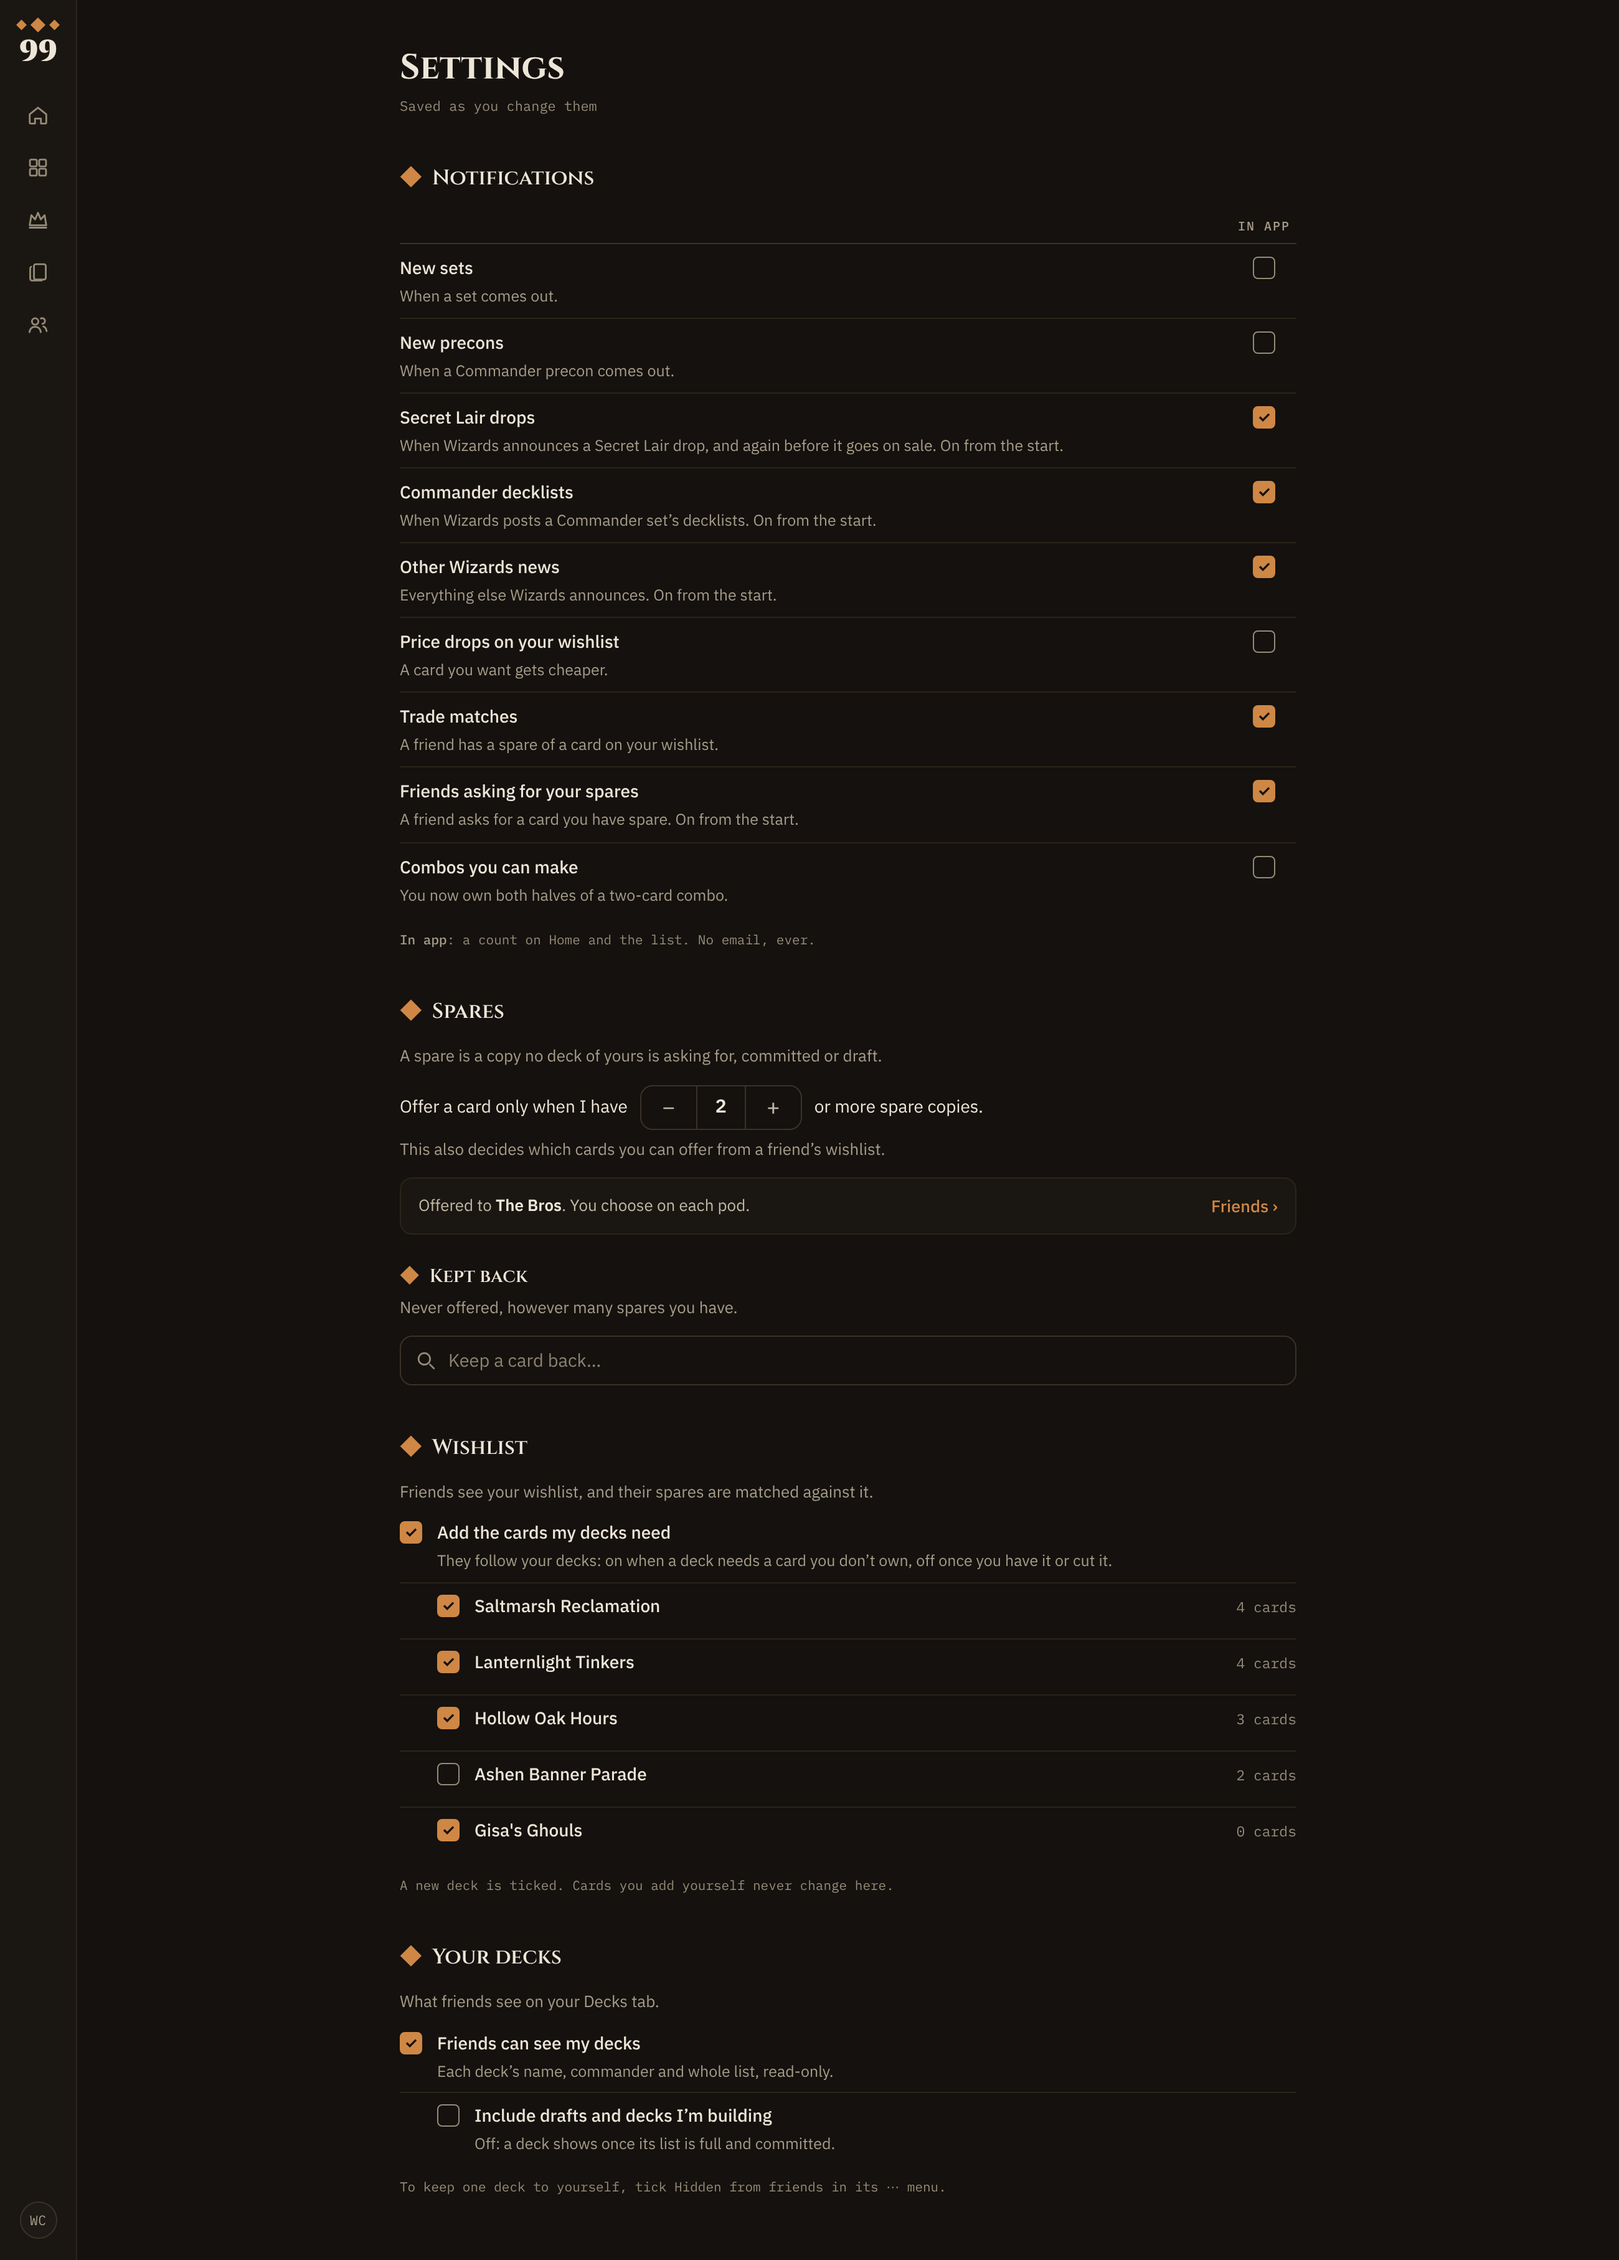
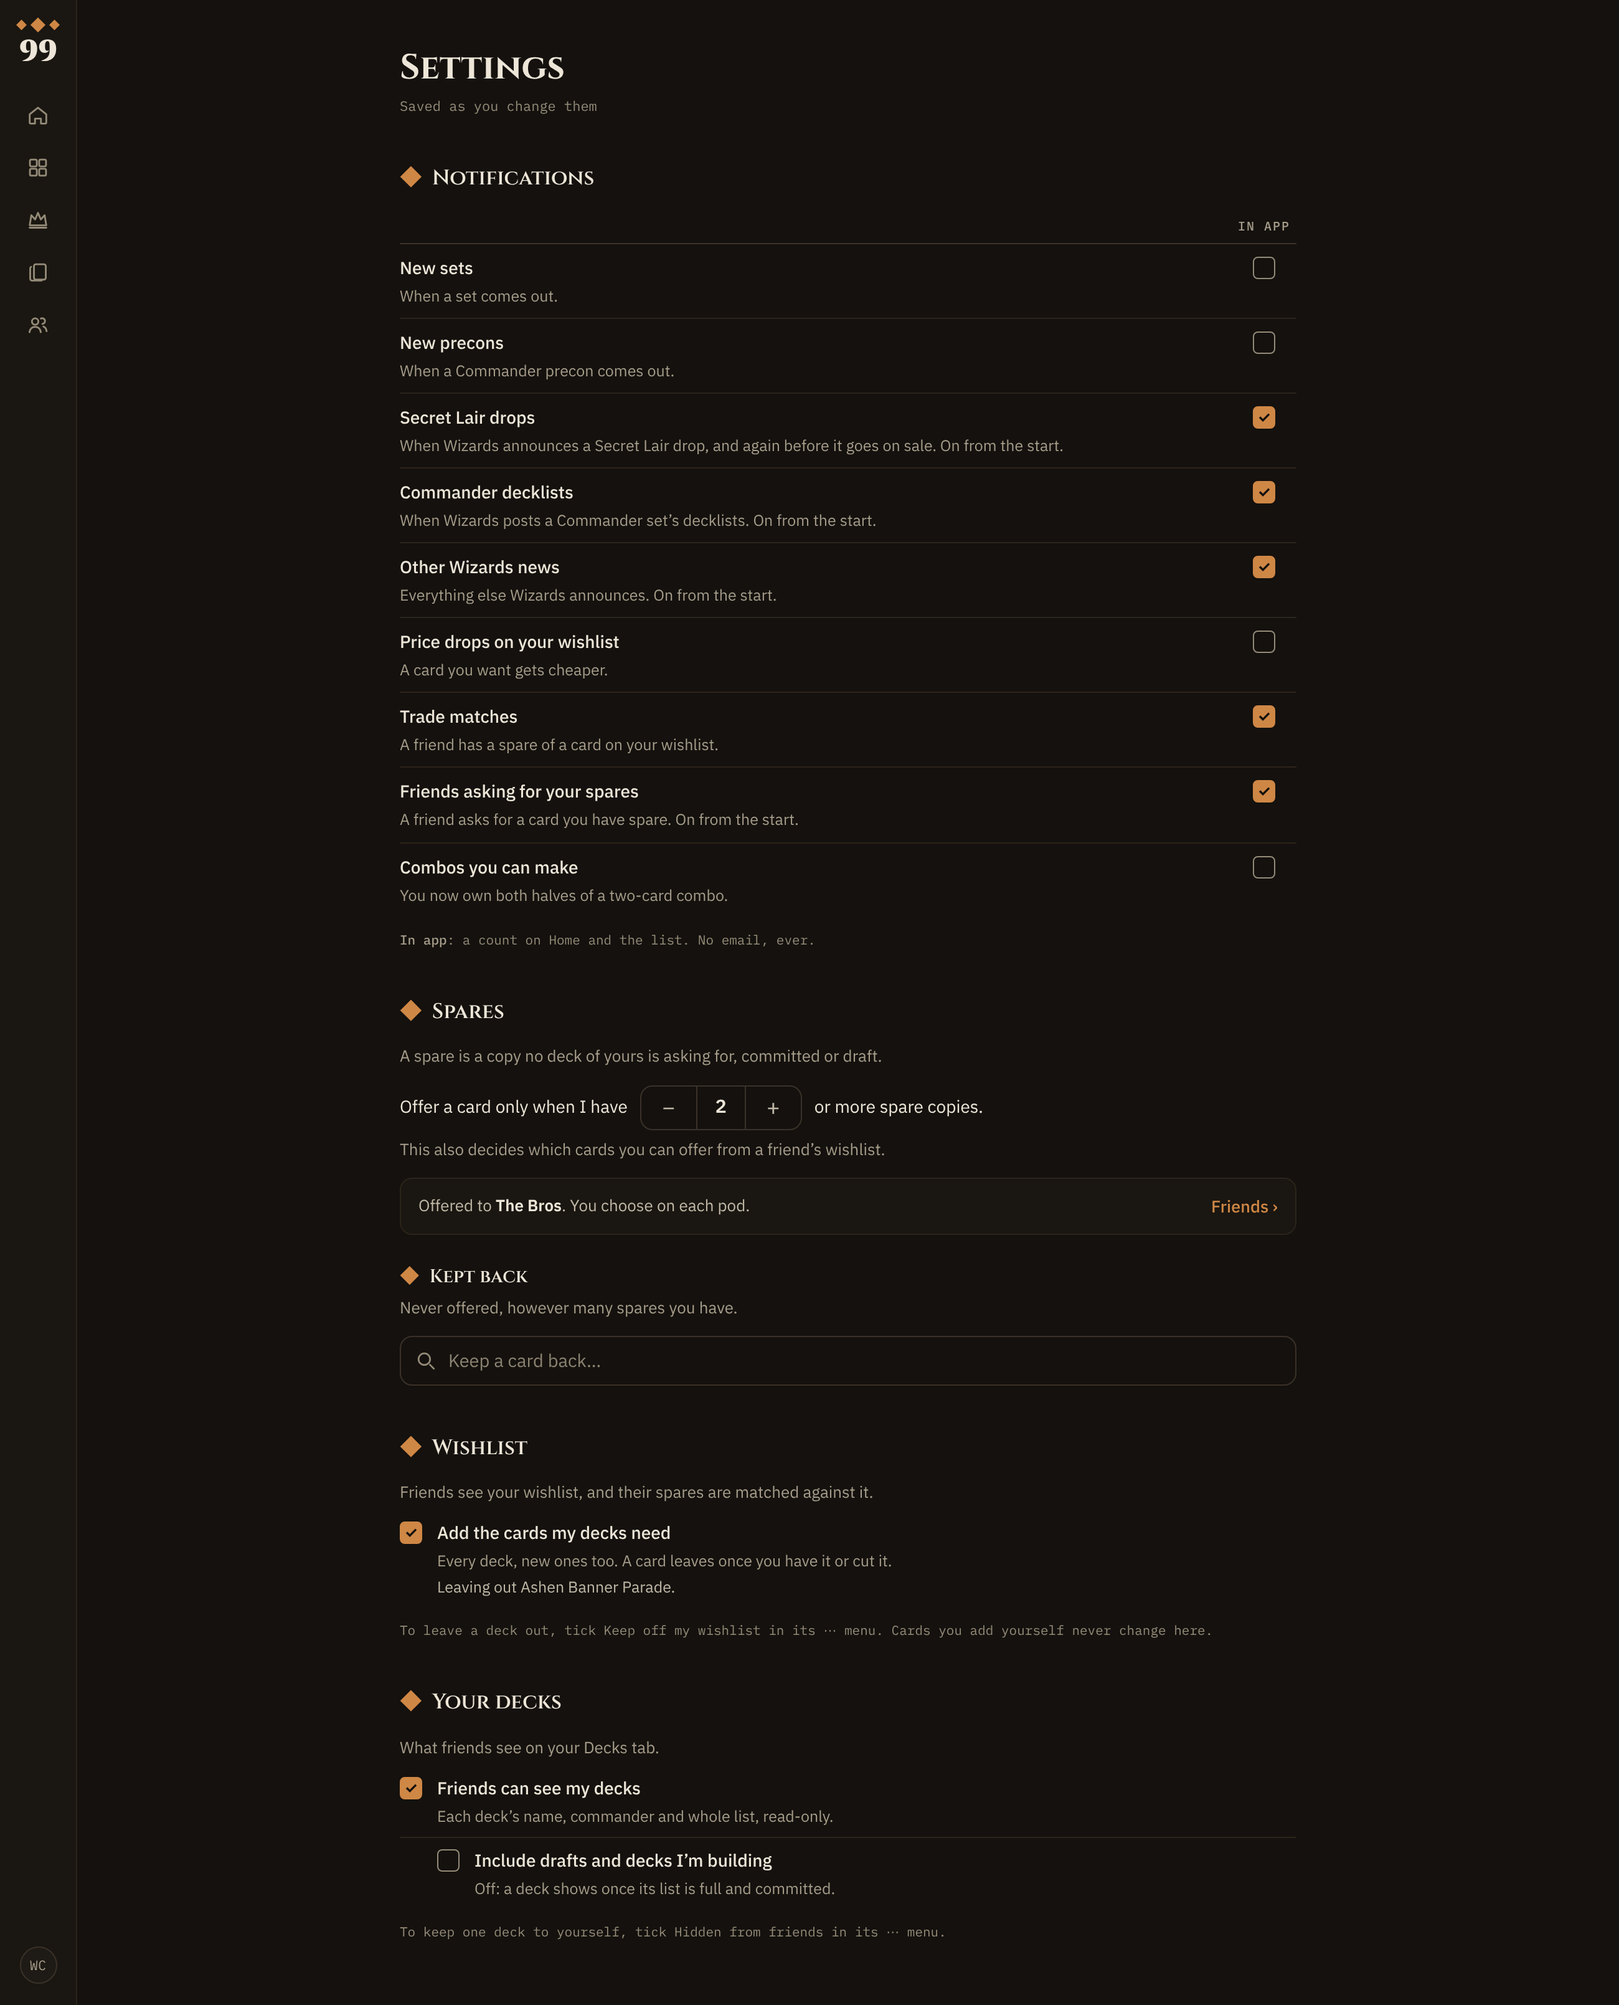
account-2 2026-11-27: Cart on your wishlist R1b, per-deck ticks move from Settings to the deck menu's Keep off my wishlist
Claude-Session: https://claude.ai/code/session_01UvpaAZcvFpJFTKCcWzjzxm

diff --git a/account-2/design_handoff_the99_cart_wishlist/Settings.dc.html b/account-2/design_handoff_the99_cart_wishlist/Settings.dc.html
@@ -2,7 +2,7 @@
 <html lang="en">
 <head>
 <meta charset="utf-8">
-<title>Settings, Wishlist section</title>
+<title>Settings, Wishlist section and the deck menu</title>
 <script src="./support.js"></script>
 </head>
 <body>
@@ -12,20 +12,34 @@
 body{margin:0}
 </style>
 </helmet>
-<div style="width: 1878px; height: 2350px; box-sizing: border-box; padding: 48px 64px 64px; background: #161412; color: #e9e3d8; font-family: system-ui, -apple-system, sans-serif; display: flex; gap: 60px; align-items: flex-start">
+<div style="width: 1878px; height: 3200px; box-sizing: border-box; padding: 48px 64px 64px; background: #161412; color: #e9e3d8; font-family: system-ui, -apple-system, sans-serif; display: flex; flex-direction: column; gap: 50px">
+<div style="display: flex; gap: 60px; align-items: flex-start">
 <div style="display: flex; flex-direction: column; gap: 14px; width: 1300px">
-<p style="margin: 0; font-size: 22px; font-weight: 700">S1 · Settings, switch on</p>
-<p style="margin: 0; font-size: 15px; color: #b9b1a3; height: 44px">A new Wishlist section between Spares and Your decks, drawn as Your decks draws its rows. Ashen Banner Parade is unticked, so its cards leave the wishlist. Gisa's Ghouls needs nothing yet.</p>
-<img src="/_blob/b81094cd4c3a169b21a657bf37076869" alt="Settings with the Wishlist section, desktop" style="width: 1300px; height: 1814px; border-radius: 10px; display: block">
+<p style="margin: 0; font-size: 22px; font-weight: 700">S1b · Settings, switch on</p>
+<p style="margin: 0; font-size: 15px; color: #b9b1a3; height: 44px">One switch takes every deck, new ones too, so nothing is ticked deck by deck. The section is the same height at 5 decks or 50: one line names the decks you left out, and the foot says where to do it.</p>
+<img src="/_blob/1480b50b18dc89e4b67c3b8630f828ad" alt="Settings with the Wishlist section, desktop" style="width: 1300px; height: 1609px; border-radius: 10px; display: block">
 </div>
 <div style="display: flex; flex-direction: column; gap: 14px; width: 390px">
 <p style="margin: 0; font-size: 22px; font-weight: 700">Phone</p>
 <p style="margin: 0; font-size: 15px; color: #b9b1a3; height: 44px">The same rows at full width.</p>
-<img src="/_blob/6ad71ef04de87c8eeec76edefba1966b" alt="Settings with the Wishlist section, phone" style="width: 390px; height: 2160px; border-radius: 10px; display: block">
+<img src="/_blob/6707577a85891d513f254aa5c92ae97f" alt="Settings with the Wishlist section, phone" style="width: 390px; height: 1955px; border-radius: 10px; display: block">
+</div>
+</div>
+<div style="display: flex; gap: 60px; align-items: flex-start">
+<div style="display: flex; flex-direction: column; gap: 14px; width: 1300px">
+<p style="margin: 0; font-size: 22px; font-weight: 700">M1 · The deck's ⋯ menu, Decks list</p>
+<p style="margin: 0; font-size: 15px; color: #b9b1a3; height: 44px">"Keep off my wishlist" sits under Hidden from friends, as the same checkbox row. It shows only while the switch is on. The deck page header's ⋯ menu gets the same row. Shown over the shipped Decks page.</p>
+<img src="/_blob/4c1772a5de858464c9f0c2c25e87c528" alt="Deck menu with Keep off my wishlist ticked, desktop" style="width: 1300px; height: 900px; border-radius: 10px; display: block">
+</div>
+<div style="display: flex; flex-direction: column; gap: 14px; width: 390px">
+<p style="margin: 0; font-size: 22px; font-weight: 700">Phone</p>
+<p style="margin: 0; font-size: 15px; color: #b9b1a3; height: 44px">Scrolled to the first tile.</p>
+<img src="/_blob/25fc9c216f606f1677bc5c37c565af92" alt="Deck menu with Keep off my wishlist ticked, phone" style="width: 390px; height: 514px; border-radius: 10px; display: block">
+</div>
 </div>
 </div>
 </x-dc>
-<script type="text/x-dc" data-dc-script data-props='{"$preview":{"width":1878,"height":2350}}'>
+<script type="text/x-dc" data-dc-script data-props='{"$preview":{"width":1878,"height":3200}}'>
 class Component extends DCLogic {
 renderVals() { return {}; }
 }

diff --git a/account-2/design_handoff_the99_cart_wishlist/scratch-gen/render.tsx b/account-2/design_handoff_the99_cart_wishlist/scratch-gen/render.tsx
@@ -1,6 +1,6 @@
 // Cart on your wishlist R1 (account 2, 2026-11-27): every frame is the shipped shell and the shipped page, rendered with
 // the shipped CSS, with this round's proposal applied (wishlist-groups.tsx, wishlist-section.tsx, the rolled trade match).
-import { app, done } from "./shell";
+import { app, done, frames } from "./shell";
 import { CollectionPlaceHead } from "../src/components/collection/collection-place-head";
 import { WishlistView } from "../src/components/wishlist/wishlist-view";
 import { SettingsView } from "../src/components/settings/settings-view";
@@ -13,6 +13,9 @@ import { FriendStrip } from "../src/components/social/friend-strip";
 import { FriendWishlist } from "../src/components/social/friend-wishlist";
 import { WhatsNew } from "../src/components/home/whats-new";
 import { named } from "../src/lib/person-name/mint";
+import { DeckCardOverflow } from "../src/components/decks/deck-card-overflow";
+import { renderToString } from "react-dom/server";
+import { writeFileSync } from "node:fs";
 
 const NOW = new Date("2026-11-27T03:00:00Z");
 let seq = 0;
@@ -61,7 +64,7 @@ const settings = (on: boolean) => (
   <SettingsView>
     <NewsSection kinds={news} />
     <SparesSection spareMin={2} pods={[named("The Bros")]} kept={[]} />
-    <WishlistSection on={on} decks={DECKS.map((d) => ({ name: d.name, cards: d.tiles.length, in: true })).concat([{ name: "Gisa's Ghouls", cards: 0, in: true }]).map((d, i) => ({ ...d, in: i !== 3 }))} />
+    <WishlistSection on={on} leftOut={["Ashen Banner Parade"]} />
     <FriendDecksSection prefs={{ seeDecks: true, seeUnfinished: false }} />
   </SettingsView>
 );
@@ -108,4 +111,18 @@ app("N0-desk", "desk", home(old), { path: "/" });
 app("N0-phone", "phone", home(old), { path: "/" });
 app("N1-desk", "desk", home(rolled), { path: "/" });
 app("N1-phone", "phone", home(rolled), { path: "/" });
+// M: the Decks list's ⋯ menu on Ashen Banner Parade, open, over the shipped Decks capture (About pages, amonkhet).
+(globalThis as any).__OPEN = true;
+const menu = (
+  <DeckCardOverflow deckId="d4" deckName="Ashen Banner Parade" built={99} placement="tile"
+    move={{ folders: [], folderId: null, folderName: null, onCreateFolder: () => {}, onMove: () => {}, keepsFocus: true, closeAfterCreate: null }}
+    onAmong={() => {}}
+    friends={{ hidden: false, statusPill: "To buy", prefs: { seeDecks: true, seeUnfinished: false }, built: 99, size: 99, canCommit: false }}
+    wishlist={{ kept: true }} />
+);
+const over = (bg: string, w: number, h: number, right: number, top: number, shift = 0, fh = h) => `<div style="position:relative;width:${w}px;height:${fh}px;overflow:hidden;background:url(${bg}) 0 ${-shift}px/${w}px ${h}px no-repeat"><div style="position:absolute;left:${right - 23}px;top:${top}px;width:23px">${renderToString(menu)}</div></div>`;
+writeFileSync("dz/frames/M1-desk.html", over("art/d-decks2.webp", 1300, 900, 472, 354));
+writeFileSync("dz/frames/M1-phone.html", over("art/p-decks.webp", 390, 844, 372, 465 - 330, 330, 514));
+frames.push({ id: "M1-desk", dev: "desk", vh: 900 }, { id: "M1-phone", dev: "phone", vh: 514 });
+(globalThis as any).__OPEN = false;
 done();

diff --git a/account-2/design_handoff_the99_cart_wishlist/Main.dc.html b/account-2/design_handoff_the99_cart_wishlist/Main.dc.html
@@ -22,7 +22,7 @@ a{color:#e8a25b}a:hover{color:#f2bd85}
 <div style="display: grid; grid-template-columns: repeat(2, minmax(0, 1fr)); gap: 40px">
 <div style="display: flex; flex-direction: column; gap: 14px; font-size: 15.5px; line-height: 1.55; color: #d9d2c4">
 <h2 style="margin: 0; font-size: 20px; color: #e9e3d8">Calls</h2>
-<p style="margin: 0"><b>1. One switch, in Settings › Wishlist</b> (new section after Spares): "Add the cards my decks need", with every deck under it, ticked unless you untick it. A new deck starts ticked. Board S.</p>
+<p style="margin: 0"><b>1. One switch, in Settings › Wishlist</b> (new section after Spares): "Add the cards my decks need" takes every deck, new ones too. To leave one out, tick "Keep off my wishlist" in its ⋯ menu, beside Hidden from friends; Settings names the decks left out. The same height at 5 decks or 50. Board S (R1b).</p>
 <p style="margin: 0"><b>2. Offered once on the Wishlist tab</b> while the switch is off and your decks need cards: the collected strip's own shell, "Add them" turns the switch on, ✕ hides the offer for good. Board O.</p>
 <p style="margin: 0"><b>3. Your tab is split by source</b>: an "Added by you" box first, then one box per deck, "For Saltmarsh Reclamation · 4" with Open deck ›. The boxes are the deck tabs' shipped DeckBox; the tiles are the shipped Wishlist tiles. A card two decks need sits in both boxes (Sai). Board W.</p>
 <p style="margin: 0"><b>4. Deck cards follow their decks</b>: each wants what you own plus what the decks still need, so the shipped collected sweep removes it when you buy it (I got it, Back from Mana Pool). Cutting it from the deck, or unticking the deck, removes it too. Lines you added are never touched.</p>

diff --git a/account-2/design_handoff_the99_cart_wishlist/README.md b/account-2/design_handoff_the99_cart_wishlist/README.md
@@ -1,6 +1,6 @@
 # Cart on your wishlist · R1
 
-Account 2, 2026-11-27. Status: **R1 for Hugh's review.** Canvas (Design type): https://claude.ai/artifact/VhLtmwDv6aMtudcYG7kXuN
+Account 2, 2026-11-27. Status: **R1 for Hugh's review** (R1b: per-deck ticks moved from Settings to the deck ⋯ menu). Canvas (Design type): https://claude.ai/artifact/VhLtmwDv6aMtudcYG7kXuN
 (Main, Wishlist-Desktop, Wishlist-Phone, Offer, Settings, Friend, Notices).
 
 Hugh's ask (2026-11-27): move the cart to the wishlist, or keep the two in sync (opt-in), so friends see what you're shopping
@@ -15,10 +15,13 @@ Every frame is rendered from main with the shipped components and the shipped CS
 
 ## Calls
 
-1. **One switch, Settings › Wishlist** (board `Settings`). A new section after Spares, drawn as Your decks draws its rows
-   (shipped `Checkbox`, name, line, indented sub rows): `Add the cards my decks need` / `They follow your decks: on when a deck
-   needs a card you don’t own, off once you have it or cut it.` Under it every deck, ticked, with a mono `N cards`; unticking a
-   deck takes its cards off. Foot: `A new deck is ticked. Cards you add yourself never change here.` Default off.
+1. **One switch, Settings › Wishlist** (board `Settings`, R1b after Hugh asked about 20+ decks). A new section after Spares,
+   drawn as Your decks draws its rows: `Add the cards my decks need` / `Every deck, new ones too. A card leaves once you have it or
+   cut it.` Every deck is in, new decks too; nothing is ticked deck by deck. When any are left out, a line under it:
+   `Leaving out Ashen Banner Parade.` / `Leaving out 3 decks: …`. Foot: `To leave a deck out, tick Keep off my wishlist in its ⋯
+   menu. Cards you add yourself never change here.` Default off. Same height at any deck count.
+   **Keep off my wishlist** (board `Settings`, M1): a checkbox row in the deck's ⋯ menu under Hidden from friends (tile and
+   header placements), the same row geometry, shown only while the switch is on. Ticking it takes that deck's cards off.
 2. **Offered once on the Wishlist tab** (board `Offer`), while the switch is off and the reader's decks need a card they own none
    of: the collected strip's shell, bookmark glyph, `Your decks need 12 cards you don’t own.` + `Put them here so friends can see
    them. They follow your decks, and leave once you have them.`, ghost `Add them`, ✕ `Not now`. Add them = switch on, all decks
@@ -57,7 +60,7 @@ Every frame is rendered from main with the shipped components and the shipped CS
 - G1 `wishlist_items` needs a source (hand vs synced) and the synced decks per line, or a separate synced table read into the tab.
 - G2 sync job: recompute on deck commit/draft write, collection write and setting change, from `loadDeckBuyRows` (all decks, not the
   cart's selection, which is a view).
-- G3 offer dismissal + per-deck untick stored in `user_prefs`.
+- G3 offer dismissal in `user_prefs`; Keep off my wishlist as a deck column beside `hidden_from_friends`.
 - G4 trade-match roll-up: a per friend per day item (dedupe key stays card+friend for "told once"), push cap per day.
 - G5 price-drop job skips synced lines.
 - G6 copy review.
@@ -66,4 +69,4 @@ Every frame is rendered from main with the shipped components and the shipped CS
 
 SSR recipe (friends_link): copy main, drop `@fwd-stack/*`, `npm install --ignore-scripts`, `tsconfig.scratch.json` + `stubs/`,
 `patch -p1 < proposal.diff`, `node css.mjs`, `DATABASE_URL=postgres://x:y@localhost/z npx tsx dz/render.tsx`, `FULL=1 node dz/shoot.cjs`.
-The render also sets `HydratedImg` to draw `src` on the server (render only, not in the diff). Card art from account-1 card_search.
+The render also sets `HydratedImg`, and opens the ⋯ menu from `globalThis.__OPEN` (render only, not in the diff); M1 is the SSR menu over the shipped About Decks captures. It also sets `HydratedImg` to draw `src` on the server (render only, not in the diff). Card art from account-1 card_search.
